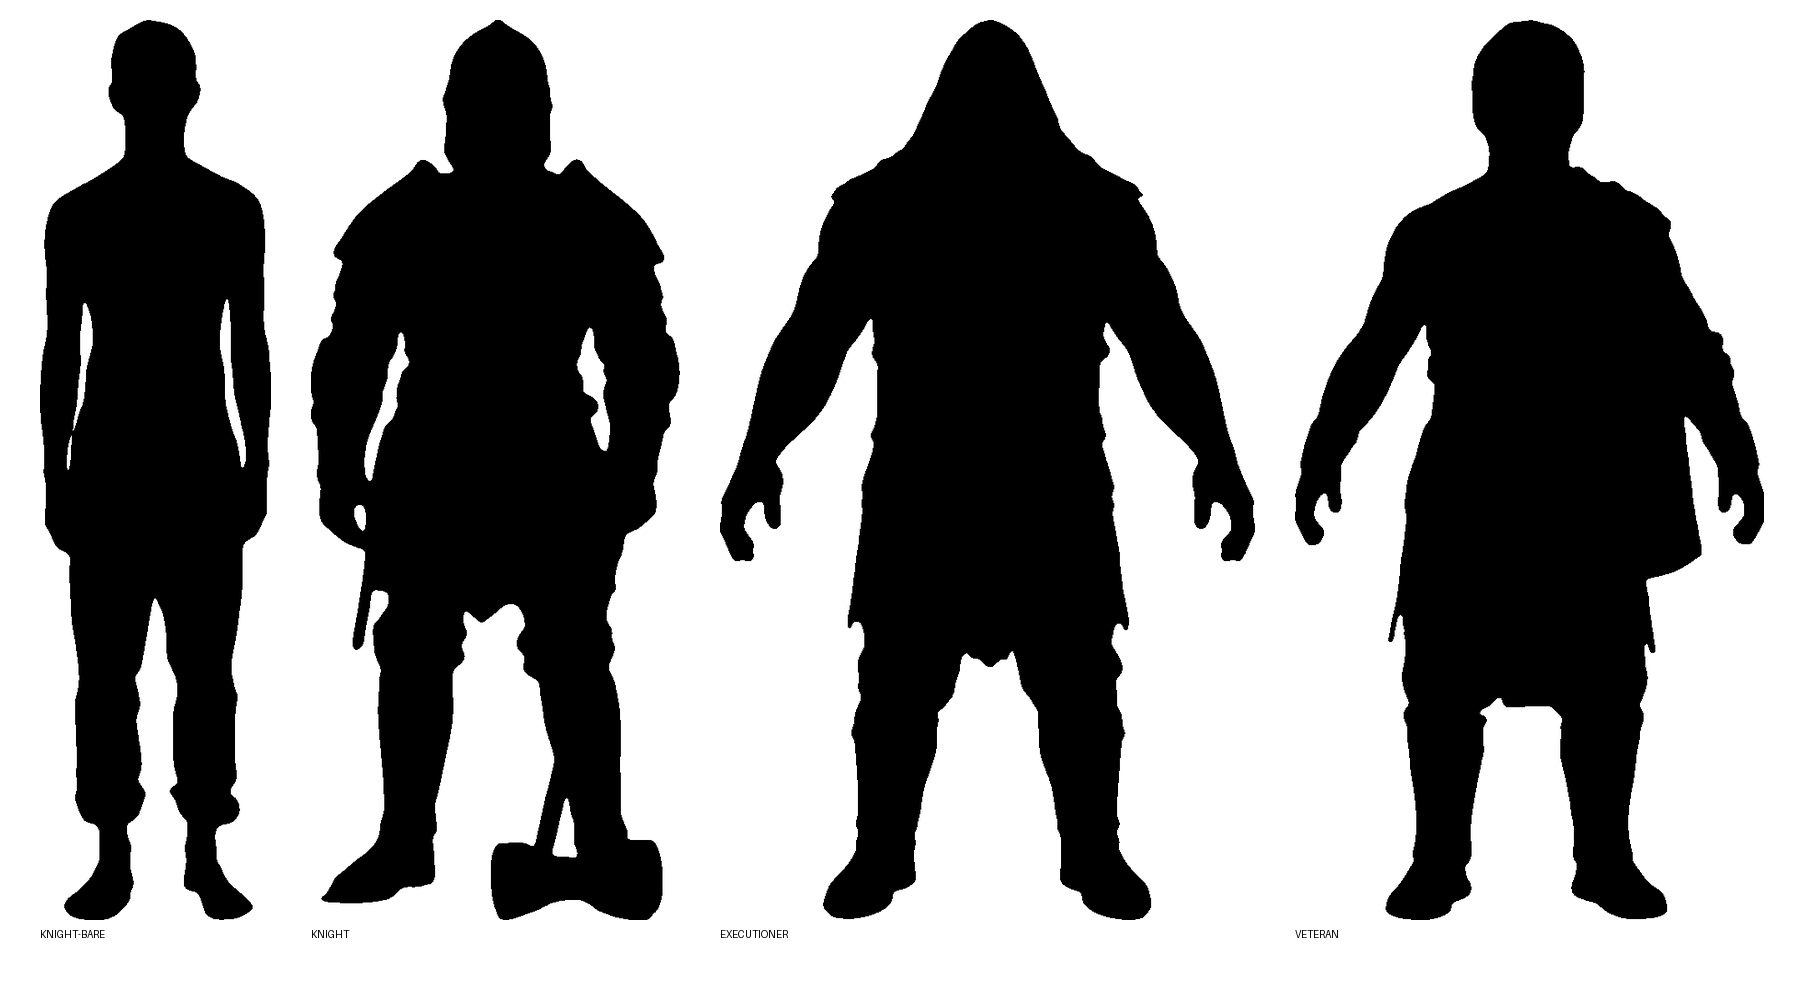
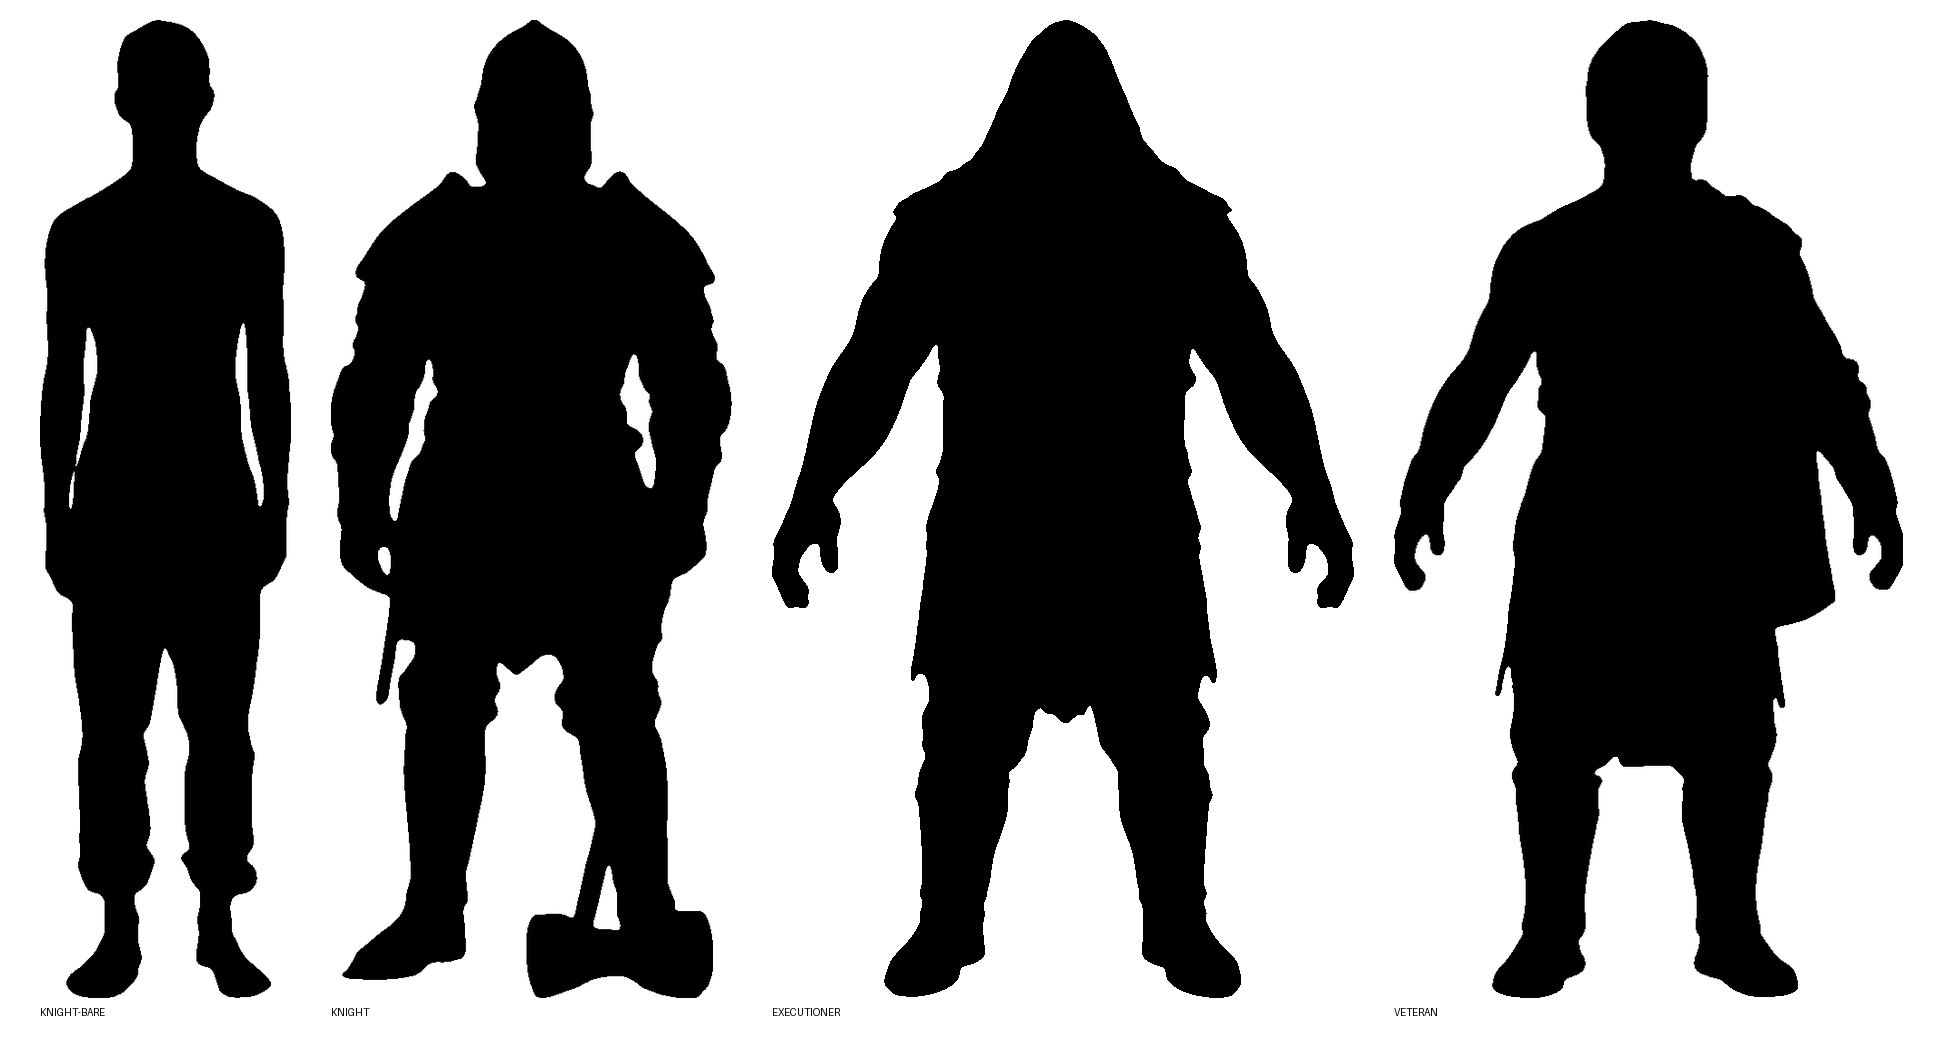
Silhouette sheets: never upscale a short mask to the comparison height
AGENTS.md via #499: normalising a short mask up to the comparison height
invents edge detail the render never had, on one side of the pair only, which
is a bias and not noise. My own loadout sheet did exactly that -- it normalised
every figure to 900 px, which upscaled the wraith (577 native) and the minotaur
(585). The common height is now the SHORTEST figure's own height and everything
else comes down to meet it.

The measurements are unaffected: every ratio in the table was taken off the
native mask, never off the sheet. Only the visual receipt was biased.

diff --git a/scripts/character/silhouette.py b/scripts/character/silhouette.py
@@ -100,8 +100,16 @@ def render(fig, out, pad=8):
     Image.fromarray(canvas, "L").save(out)
 
 
-def sheet(figs, out, height=900, gap=40, label_h=46):
-    """Every figure on one baseline, scaled to a common height."""
+def sheet(figs, out, height=None, gap=40, label_h=46):
+    """Every figure on one baseline, scaled to a common height.
+
+    NEVER upscales (AGENTS.md, #499): normalising a short mask up to the
+    comparison height invents edge detail the render never had, on one side of
+    the pair only, which is a bias and not noise. So the common height is the
+    SHORTEST figure's own height and every other figure comes down to meet it.
+    """
+    native = min(crop(fig).shape[0] for _, fig in figs)
+    height = native if height is None else min(height, native)
     tiles = []
     for name, fig in figs:
         sub = crop(fig)
